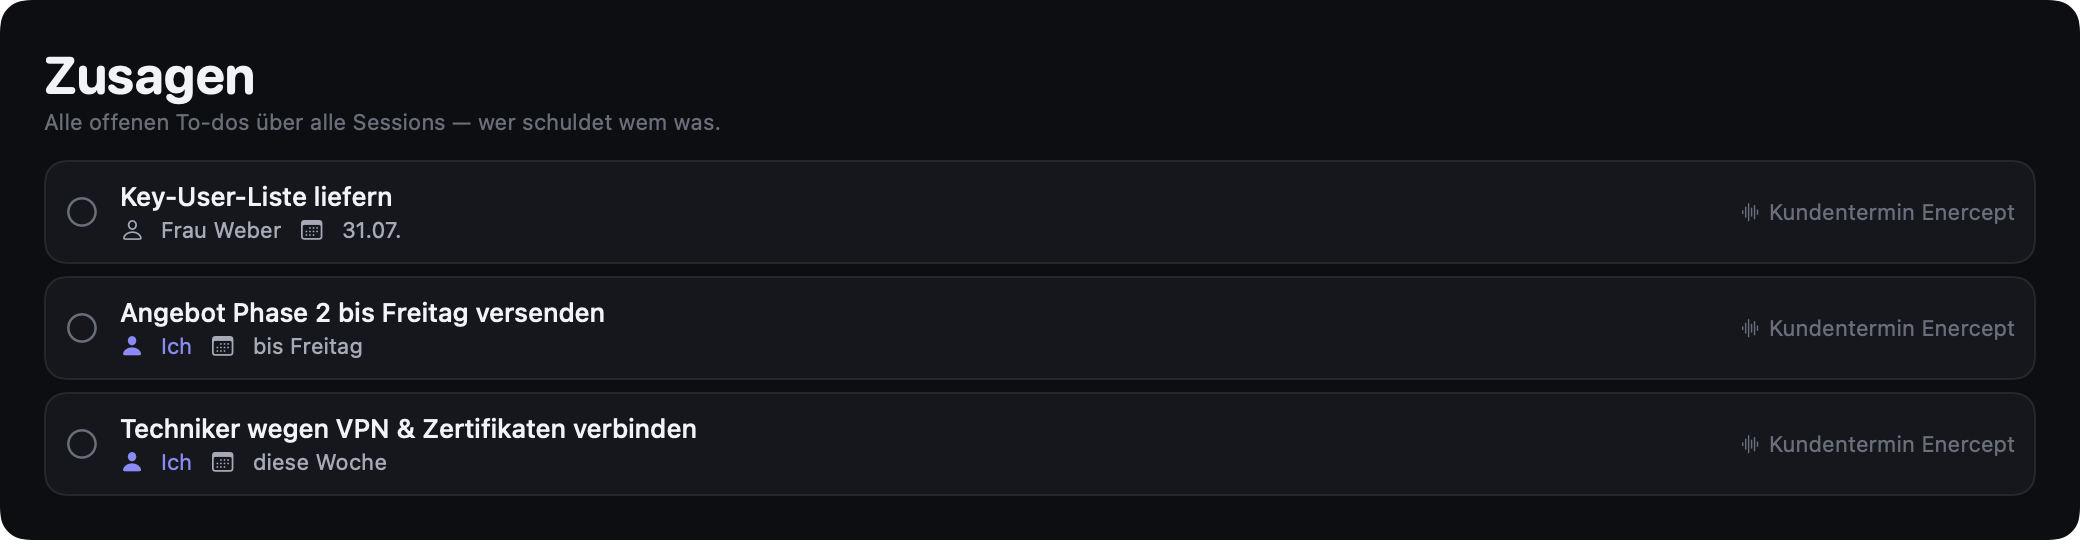
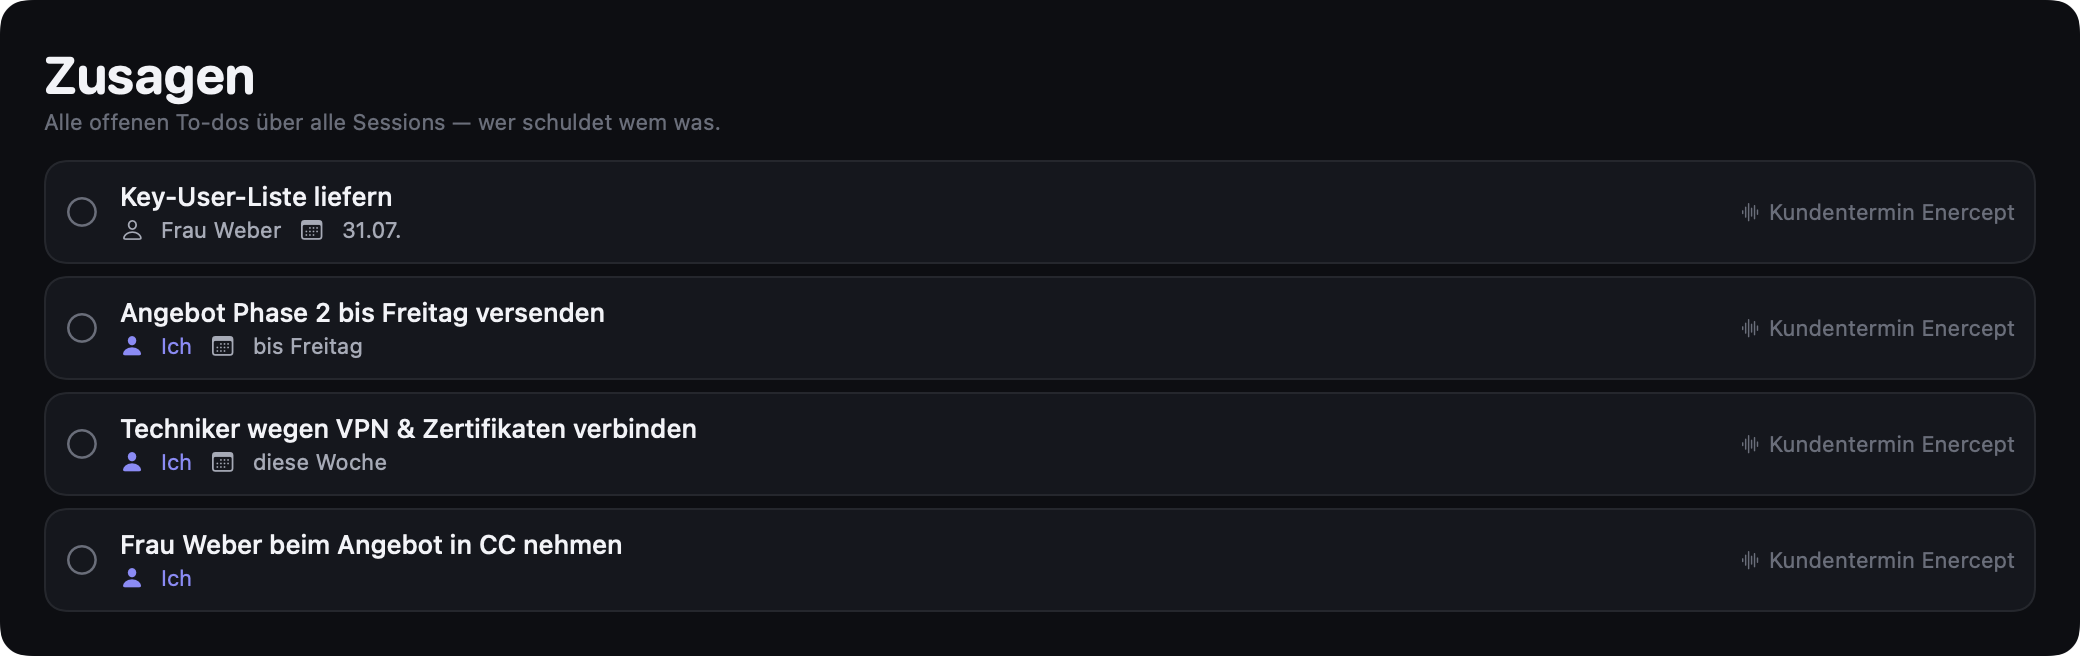
Hero in Zeilenansicht mit KI/Du-Badges, Feature-Text zu Ansichten

diff --git a/index.html b/index.html
@@ -316,7 +316,7 @@
 
   <!-- Echter App-Screenshot (aus der App gerendert) -->
   <div class="hero-shot">
-    <img src="assets/hero-session.png" alt="FlowScribe Live-Session: Transkript links, Board mit To-dos, Entscheidungen und Risiken rechts, Agenda-Anteile und Erwartungs-Ampeln oben" loading="eager">
+    <img src="assets/hero-session.png" alt="FlowScribe Live-Session in Zeilenansicht: Transkript links, Board mit To-dos, Entscheidungen, Risiken und Zahlen rechts — KI-Karten mit ✦-Confidence, eigene Karten mit Du-Badge" loading="eager">
   </div>
 </header>
 </div>
@@ -339,7 +339,7 @@
       <p data-i18n="feat.sub">Kein Notetaker, der hinterher zusammenfasst — ein Board, das sich live füllt, während du dich aufs Gespräch konzentrierst.</p>
     </div>
     <div class="feature-grid">
-      <div class="card"><div class="icon i-purple">▤</div><h3 data-i18n="feat.1.h">Live-Board statt Protokoll</h3><p data-i18n="feat.1.p">Alle ~30 Sekunden landen neue Karten in deinen Buckets: To-dos, Entscheidungen, Risiken, Zahlen. Patch statt Rewrite — nichts flackert, nichts springt.</p></div>
+      <div class="card"><div class="icon i-purple">▤</div><h3 data-i18n="feat.1.h">Live-Board statt Protokoll</h3><p data-i18n="feat.1.p">Alle ~30 Sekunden landen neue Karten in deinen Buckets — als Zeilen, Säulen oder freies Canvas, wie du magst. KI-Karten tragen ein ✦, deine ein „Du“. Patch statt Rewrite: nichts flackert, nichts springt.</p></div>
       <div class="card"><div class="icon i-yellow">✦</div><h3 data-i18n="feat.2.h">Erwartungen, live überwacht</h3><p data-i18n="feat.2.p">„Ich erwarte, dass der Kunde ein Startdatum nennt." FlowScribe hakt es ab, wenn es passiert — und warnt, wenn ihr euch in Technikdetails verliert.</p></div>
       <div class="card"><div class="icon i-blue">◔</div><h3 data-i18n="feat.3.h">Agenda mit Zeitanteilen</h3><p data-i18n="feat.3.p">„42 % ging um Punkt 1" — live gemessen, nicht geschätzt. Unbehandelte Punkte melden sich, bevor der Termin vorbei ist.</p></div>
       <div class="card"><div class="icon i-teal">👥</div><h3 data-i18n="feat.4.h">Ich vs. Andere</h3><p data-i18n="feat.4.p">Mikro und Systemton werden getrennt transkribiert — auch in Teams- und Zoom-Calls weißt du, wer was zugesagt hat. Sprecher benennbar per Klick.</p></div>
@@ -567,7 +567,7 @@ const i18n = {
     "feat.h2": "Say once what matters. Structured forever.",
     "feat.sub": "Not a notetaker that summarizes afterwards — a board that fills itself live while you focus on the conversation.",
     "feat.1.h": "Live board, not minutes",
-    "feat.1.p": "Every ~30 seconds new cards land in your buckets: to-dos, decisions, risks, numbers. Patch, never rewrite — nothing flickers, nothing jumps.",
+    "feat.1.p": "Every ~30 seconds new cards land in your buckets — as rows, columns or a free canvas, your choice. AI cards carry a ✦, yours a \"You\" badge. Patch, never rewrite: nothing flickers, nothing jumps.",
     "feat.2.h": "Expectations, monitored live",
     "feat.2.p": "\"I expect the client to name a start date.\" FlowScribe checks it off when it happens — and warns you when you drift into tech details.",
     "feat.3.h": "Agenda with time shares",
